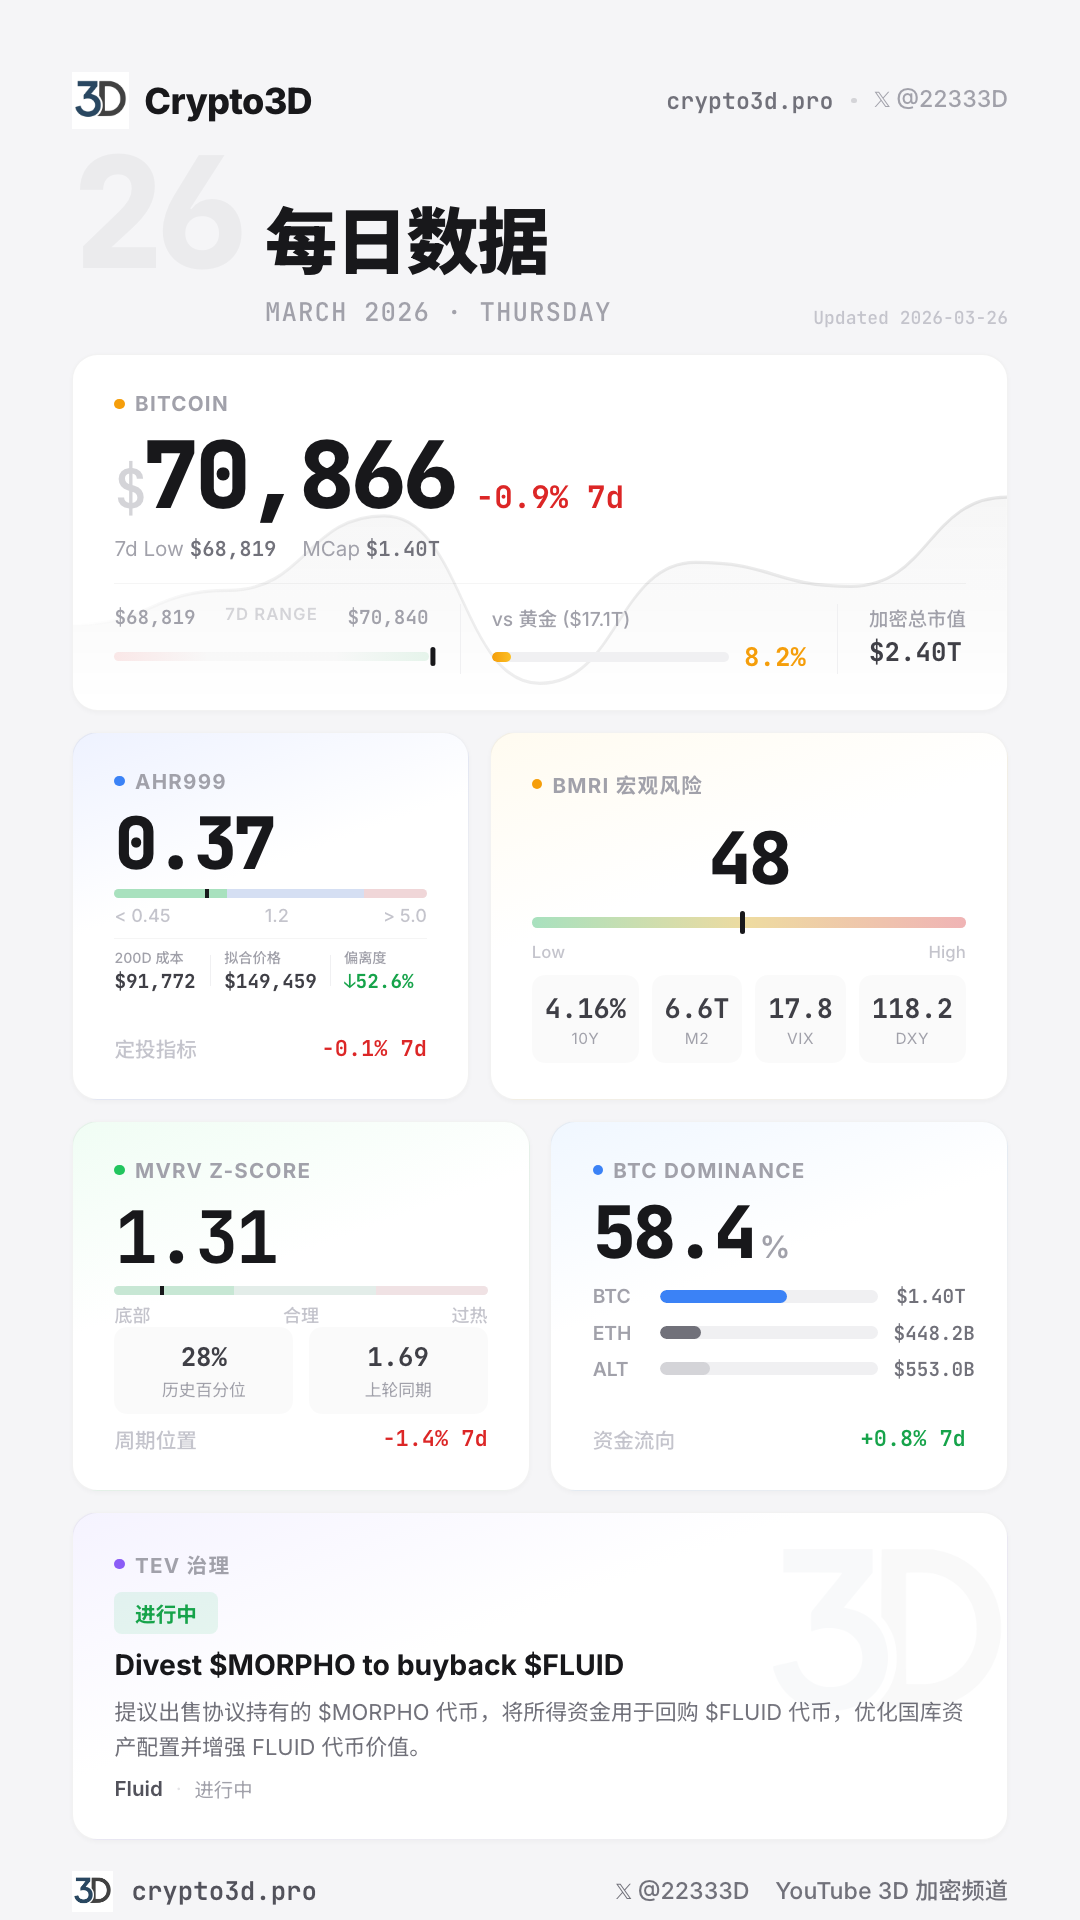
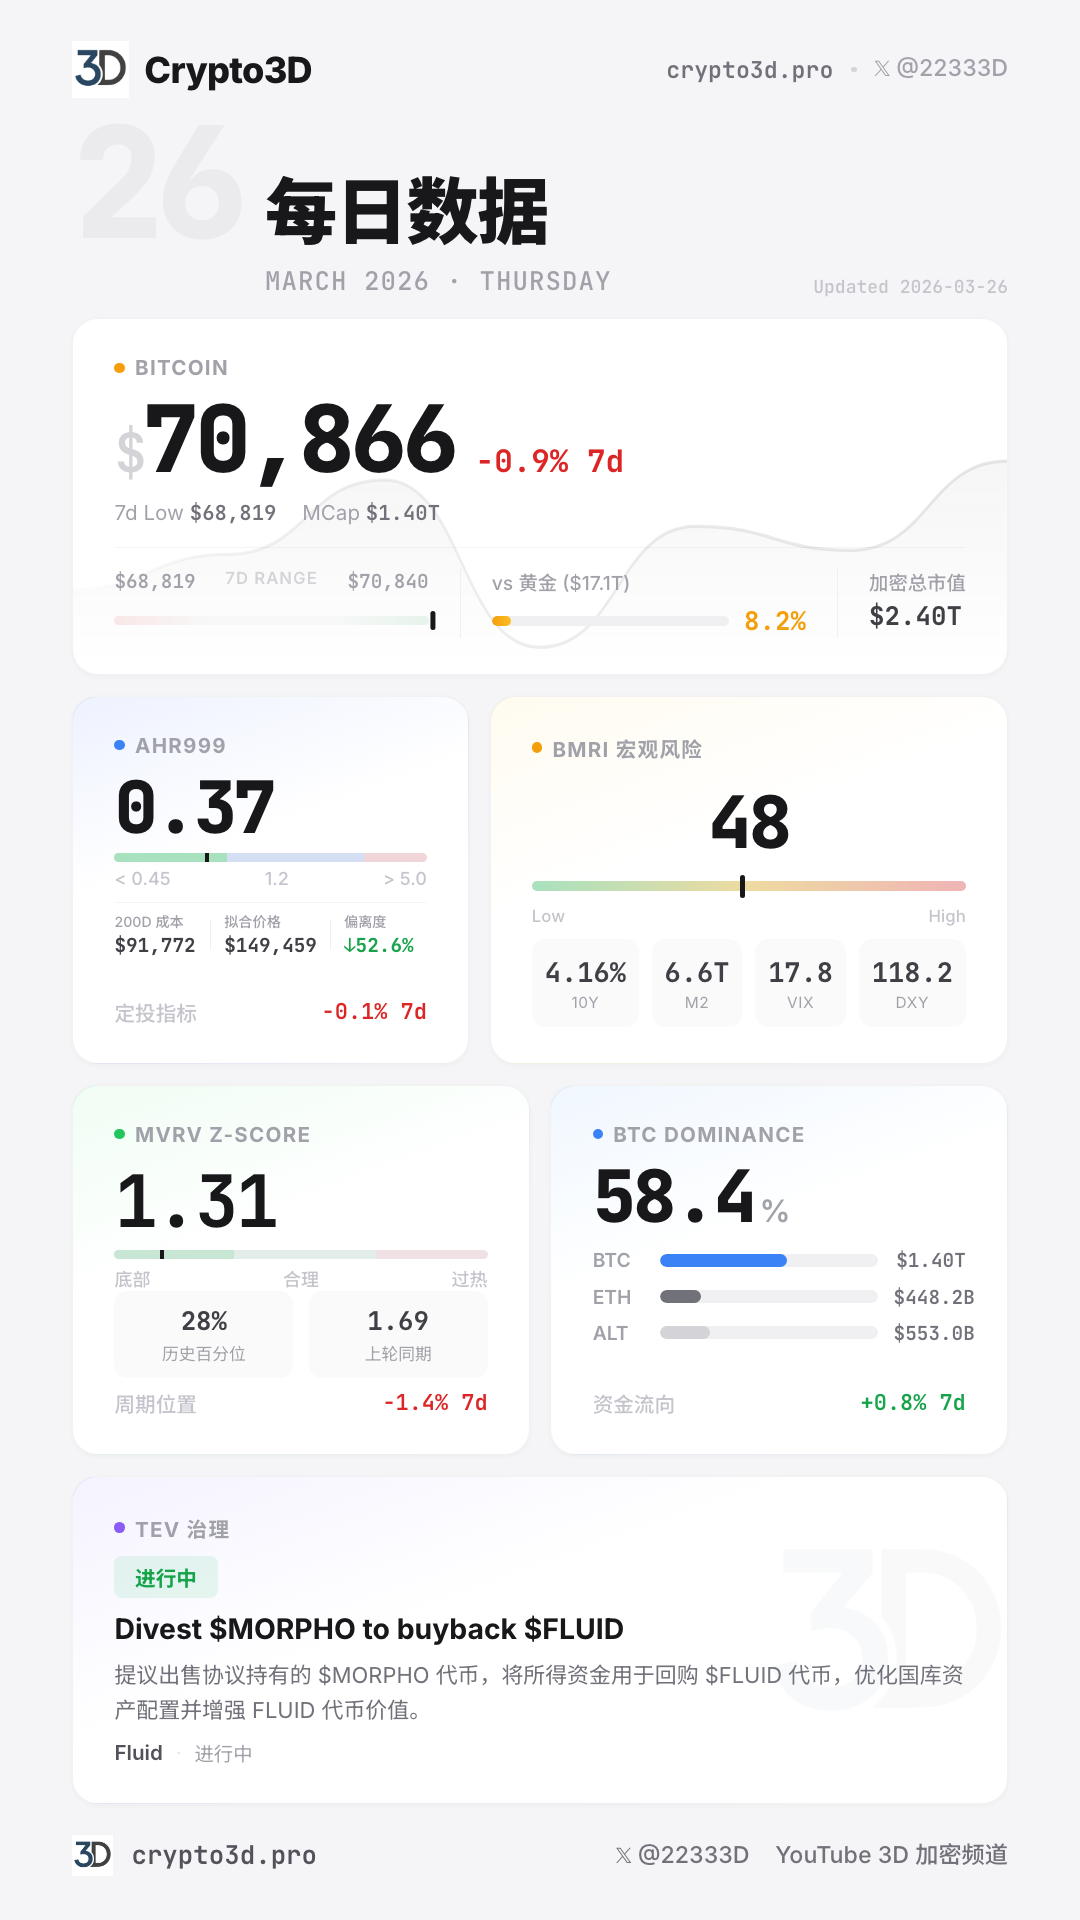
fix: reduce top padding to minimize poster header whitespace

diff --git a/daily-poster/output/2026-03-26.html b/daily-poster/output/2026-03-26.html
@@ -21,7 +21,7 @@ body {
 .poster {
   width: 838px;
   height: 1490px;
-  padding: 56px 56px 48px;
+  padding: 32px 56px 48px;
   display: flex;
   flex-direction: column;
   gap: 16px;
@@ -51,7 +51,7 @@ body {
   display: flex;
   align-items: baseline;
   gap: 20px;
-  margin-bottom: 4px;
+  margin-bottom: 0;
 }
 
 .title-day {

diff --git a/daily-poster/gen-daily.py b/daily-poster/gen-daily.py
@@ -567,6 +567,11 @@ def render_html(data):
         f'width: {inner_w}px;\n  height: {inner_h}px;\n  padding:'
     )
 
+    # Tighten top padding
+    html = html.replace('padding: 56px 56px 48px;', 'padding: 32px 56px 48px;')
+    # Reduce title section margin
+    html = html.replace('margin-bottom: 4px;\n}', 'margin-bottom: 0;\n}')
+
     card_fix_css = """
 /* === Card alignment fixes === */
 .two-col { align-items: stretch !important; }
